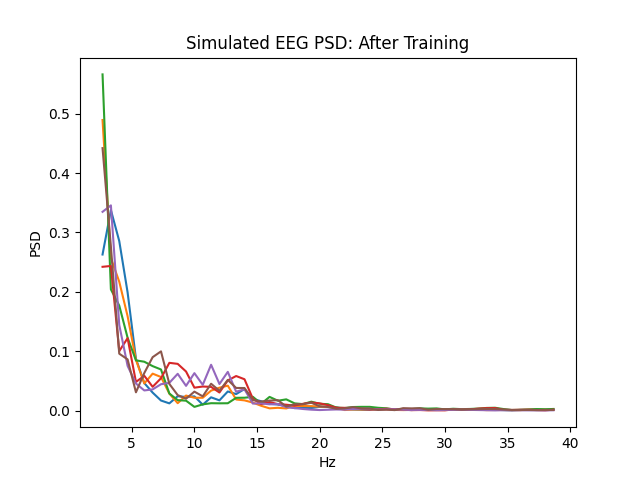
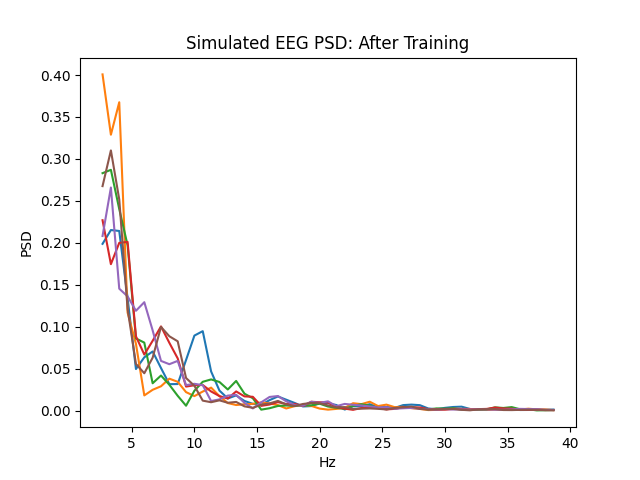
deploy: 4cd87e893a8f2840d76db5c59a5b53d31d13702c

diff --git a/searchindex.js b/searchindex.js
@@ -1,1 +1,1 @@
-Search.setIndex({docnames:["about_whobyt/architecture","about_whobyt/overview","auto_examples/eg001x__template","auto_examples/eg002r__multimodal_simulation","auto_examples/index","auto_examples/sg_execution_times","getting_started/installation","getting_started/running_in_colab","index","usage"],envversion:{"sphinx.domains.c":2,"sphinx.domains.changeset":1,"sphinx.domains.citation":1,"sphinx.domains.cpp":3,"sphinx.domains.index":1,"sphinx.domains.javascript":2,"sphinx.domains.math":2,"sphinx.domains.python":2,"sphinx.domains.rst":2,"sphinx.domains.std":2,"sphinx.ext.intersphinx":1,"sphinx.ext.viewcode":1,sphinx:56},filenames:["about_whobyt/architecture.md","about_whobyt/overview.rst","auto_examples/eg001x__template.rst","auto_examples/eg002r__multimodal_simulation.rst","auto_examples/index.rst","auto_examples/sg_execution_times.rst","getting_started/installation.rst","getting_started/running_in_colab.rst","index.rst","usage.rst"],objects:{},objnames:{},objtypes:{},terms:{"000":[2,5],"0000":3,"0028886040672659874":3,"005750397220253944":3,"008472681976854801":3,"00966897513717413":3,"009988600388169289":3,"0360103":3,"036015":3,"0360467":3,"0361357":3,"0368123":3,"0368483":3,"0371892":3,"037229":3,"0619602":3,"0619746":3,"06199":3,"0619936":3,"0620114":3,"0620167":3,"0620382":3,"0620472":3,"0x7f7bf7fc4670":3,"1000":[0,3],"1010072":3,"1010866":3,"1011379":3,"101193":3,"1020572":3,"1021316":3,"1024857":3,"1025362":3,"11239":0,"11912272125482559":3,"1273":0,"1314":0,"1500":3,"15000":3,"164":[4,5,8],"1662158":3,"1662201":3,"1662443":3,"1662604":3,"1662629":3,"1662803":3,"1662886":3,"16632":3,"169":[3,5],"18623781204223633":3,"2000":3,"2003":0,"2006":0,"2013":0,"2014":0,"23670479655265808":3,"24999991":3,"2712475":3,"2712846":3,"2713214":3,"2713385":3,"271343":3,"2713581":3,"2713706":3,"2713983":3,"2747479975223541":3,"302":0,"3031167685985565":3,"3283":3,"3299173414707184":3,"349921852350235":3,"35011318":3,"35011712":3,"3501218":3,"3501245":3,"35013065":3,"35013175":3,"35013497":3,"3501352":3,"3727840483188629":3,"3771024":3,"3771319":3,"3771743":3,"3771937":3,"377209":3,"3772229":3,"3772334":3,"3772612":3,"3859928548336029":3,"4012949466705322":3,"4158720374107361":3,"4270980656147003":3,"4286":3,"43866902589797974":3,"44819748401641846":3,"45044464":3,"45045507":3,"45046508":3,"4504663":3,"45046854":3,"4504707":3,"45047438":3,"4504811":3,"45792874693870544":3,"4835525":3,"4835823":3,"4835829":3,"4836123":3,"4836246":3,"4836491":3,"4836688":3,"4836866":3,"500":3,"5510819":3,"5510932":3,"5511106":3,"55111176":3,"55111474":3,"5511212":3,"55112153":3,"55113196":3,"5897732":3,"5898482":3,"5898557":3,"5898849":3,"5898869":3,"589929":3,"5899957":3,"5900097":3,"6144":3,"6521192":3,"6521238":3,"652145":3,"652151":3,"65215313":3,"65216434":3,"65216637":3,"65217173":3,"6924806":3,"6925071":3,"6926256":3,"6926712":3,"6926961":3,"6927688":3,"6927848":3,"6928804":3,"7536433":3,"7536461":3,"75366294":3,"75366473":3,"75367504":3,"7536791":3,"75369453":3,"75370157":3,"7886":0,"7930255":3,"7930758":3,"7931284":3,"7932166":3,"7933395":3,"7934923":3,"793536":3,"7935869":3,"8557394":3,"8557445":3,"8557481":3,"85575974":3,"8557742":3,"8557774":3,"8557968":3,"85580385":3,"8829542":3,"8830245":3,"8830833":3,"8830863":3,"8833997":3,"8835701":3,"8836399":3,"8837658":3,"95848596":3,"9584923":3,"9585046":3,"9585108":3,"95852745":3,"9585321":3,"9585528":3,"9585601":3,"963604":3,"9636556":3,"9636761":3,"9637126":3,"9642351":3,"9642849":3,"9645181":3,"9646163":3,"case":0,"class":[0,3],"default":[4,5,8],"float":3,"function":[0,4],"import":[0,2,3,7],"int":3,"long":0,"new":7,"return":3,"super":3,"true":3,Added:3,And:2,Not:3,That:3,The:[0,2],Then:[3,7],Used:3,__init__:3,a_E:0,a_i:0,abl:3,abs:3,activ:6,adam:3,add:[1,3],addit:[0,7],all:3,alreadi:3,also:3,alvarez:0,amplitud:0,ani:4,anywai:7,append:3,approv:7,artifici:[0,3],assum:3,ath:2,aug:0,auto_exampl:5,auto_examples_jupyt:4,auto_examples_python:4,avail:4,averag:0,axessubplot:3,axi:3,b_e:0,b_i:0,backward:3,batch:0,being:3,between:3,biolog:0,bit:3,blah:[2,3],bold_fc:3,bold_fc_loss:3,bold_fc_weight:3,bold_histori:3,bold_lay:3,bold_p:3,bold_param:3,bold_psd:3,bold_psd_loss:3,bold_psd_weight:3,bold_stat:3,brain:0,branch:7,browser:7,calcfc:3,calcloss:3,calcpsd:3,calctotalloss:3,calcul:0,call:0,can:[4,7],cat:3,causal:0,cell:7,center:3,chang:3,chdir:7,choosen:3,chosen:3,click:[2,3],clone:[3,6,7],cmap:3,cmat:0,code:[2,3,4,7],com:[6,7],come:9,compar:0,compon:3,con_mtx:3,conda:6,condit:[0,3],conn_mat:0,connect:0,construct:0,contain:3,continu:7,conveni:7,corbetta:0,corner:3,correspond:7,coupl:0,courner:3,creat:[3,6],cube:3,current:[0,3],d_e:0,d_i:0,data:[0,3],data_tofit:0,debug:3,decis:0,deco:0,decorrel:3,def:3,defin:0,delai:0,delayst:0,demo:[4,5],depend:0,detach:3,differ:[0,3,4],dim:3,dist:3,dist_mtx:3,distanc:3,distribut:3,dmat:0,doc:7,doe:[2,3],down:7,download:[2,3,4],downsmoothpsd:3,drop:7,dtype:3,dure:3,dynam:0,each:[0,3,7],eeg:0,eeg_fc:3,eeg_fc_loss:3,eeg_fc_weight:3,eeg_histori:3,eeg_lay:3,eeg_param:3,eeg_psd:3,eeg_psd_loss:3,eeg_psd_weight:3,effect:0,eg001x__templ:[2,5],eg002r__multimodal_simul:[3,5],eig:3,eigenvalu:3,either:0,electrod:3,els:3,emerg:0,empir:0,environ:[6,7],epoch:3,equal:3,equat:0,erp_timeseries_data:0,event:3,exampl:[2,3,7],excit:0,excitatori:0,execut:5,experi:7,explor:4,extern:0,eye:3,face:3,fals:3,feed:0,feedback:0,ffi:0,fic:0,figsiz:3,figur:3,file:[0,5,7],find:3,first:[3,7],fit:[0,4,5,8],fit_model:0,fitted_r:0,fitter:0,fluctuat:0,fmri:0,folder:6,follow:7,forward:[0,3],four:3,fourth:3,friston:0,from:[0,2,3,6],full:[2,3],functionalconnectivityloss:3,galleri:[2,3,4,7],gamma:0,gammai:0,gate:0,gaussian:0,gener:[2,4],get:[0,3],git:[6,7],github:[6,7],good:7,graph:0,griffithslab:[6,7],hagmann:0,harrison:0,has:4,heatmap:3,here:[2,3,9],how:0,http:[6,7],i_0:0,i_extern:0,idea:7,imag:2,impact:0,increasingli:7,index_img:2,indiviu:3,inhibit:0,inhibitori:0,init_st:3,initi:3,input:0,insert:7,instal:8,install_colab:7,integr:0,ipynb:[2,3,7],item:3,j_nmda:0,j_valu:3,jan:0,jansen_lay:3,jansenritt:0,journal:0,jul:0,jun:0,jupyt:[2,3,4],kinet:0,label:3,lambda:0,latest:6,layer:0,lead_field:3,legend:3,length:3,lf_con_mtx:3,lf_dist_mtx:3,lf_norm:3,lf_sc_mtx:3,lf_sc_mtx_norm:3,lf_sphere_point:3,lf_square_point:3,librari:2,like:2,linalg:3,linear:0,list:[3,7],local:0,locat:3,look:3,loss:[0,3],losscomp:3,losscompon:3,mai:0,make:3,mantini:0,manual:6,mask:3,matplotlib:[2,3],matrix_norm:3,max:3,maxfreq:3,mean:[4,5,8],meanvariableloss:3,mechan:0,middl:3,might:3,minfreq:3,minim:7,minut:[2,3],mmmodel:3,modal:3,model_fit:3,modif:0,modul:[3,4],more:[2,3],msec:3,multi:3,multipli:3,named_paramet:3,navig:7,network:0,neuroimag:[0,2],neurosci:0,next_start_st:3,nib:2,nibabel:2,nilearn:2,node:[0,3],node_histori:3,node_st:3,nois:0,norm:3,normal:3,note:[0,3,9],notebook:[2,3,7],noth:3,now:[0,6,7],num_channel:3,num_epoch:0,num_region:3,numpi:3,object:0,objectivefunct:3,omput:7,one:7,ones:3,onto:3,optim:3,option:7,ord:3,order:4,organ:[4,7],oscil:0,other:0,out:3,over:3,overal:0,page:7,pair:3,panda:[2,3],paper:0,param:[0,3],paramet:[4,5,8],paramsbold:3,paramseeg:3,paramsjr:[0,3],paramsnod:3,penni:0,perceptu:0,pip:6,place:3,plot:[0,2],plot_stat_map:2,plt:[2,3],point:3,ponc:0,powerspectrumloss:3,present:0,print:[2,3],project:3,psd:0,pyplot:[2,3],python:[2,3,4,6,7],radiu:3,randn_lik:3,random:3,rang:[0,3],ratio:0,rdbu_r:3,recurr:0,region:3,rel:3,relat:2,remov:3,repeat:3,repositori:7,requir:6,requires_grad:3,research:7,rest:[0,7],returnlosscompon:3,rnn:0,rnnjansen:[0,3],rnnwwd:3,romani:0,run:[0,2,3],rww:[0,4,5,8],rww_layer:3,rww_param:3,s_e:[0,4,5,8],s_e_mean:3,s_e_mean_loss:3,s_e_mean_weight:3,s_i:0,s_i_mean:3,s_i_mean_loss:3,s_i_mean_weight:3,sai:2,samplefreqhz:3,sc_mtx:3,sc_mtx_norm:3,scalepsd:3,scientif:7,script:[2,3],sdaxi:3,sdaxis_d:3,sdvalu:3,sdvalues_d:3,sdvalues_ds_sc:3,seaborn:3,second:[2,3],section:4,see:7,select:7,self:[0,3],serv:0,set:0,shape:[0,3],should:[0,7],sig:0,signal:[0,3],sim_fc:3,sim_len:3,sim_r:0,similar:3,simpli:0,simul:[0,3],size:3,skip_tran:3,sleep:7,slow:0,sns:3,some:[3,7],sourc:[2,3,4],sphere:3,sphere_point:3,sphinx:[2,3,4,7],sqrt:3,squar:3,square_point:3,squre:3,standard:0,start:0,state:0,step:[3,7],step_siz:3,str:3,stuff:[2,3],suggest:0,sum:3,synapt:0,system:7,tab:7,take:0,targeteeg:3,targetvalu:3,tau_:0,tau_i:0,tau_nmda:0,temporarili:0,tensor:3,test:0,text:3,theoret:3,thi:[0,3,4],third:3,thu:3,time:[0,2,3,7],timeseri:0,titl:3,todo:0,tool:2,top:7,topic:4,torch:3,total:[2,3,5],totalloss:3,totallossfn:3,track:3,txt:6,uncorrel:0,updat:[0,3],use_prior:0,used:7,useful:7,using:[0,4,5,8],v_of_t:0,valu:[0,3],variabl:0,varidx:3,variou:3,version:6,viz:[0,3],vmax:3,vmin:3,w_e:0,w_i:0,w_plu:0,wai:3,wang:0,weight:3,were:3,what:3,which:0,whobpyt:[3,4,5,6],whole:0,wong:0,written:3,xlabel:3,ylabel:3,you:7,zero:3,zero_grad:3,zheng:0,zip:4},titles:["WhoBPyT Code Base Architecture","Overview","WhoBPyT Demo","Fitting S_E Mean to 0.164 using default RWW Parameters","All Notebook Examples","Computation times","Installation","Running whobpyt in google colab","Welcome to WhoBPyT documentation!","Usage"],titleterms:{"164":3,"default":3,"function":3,The:3,adjust:3,after:3,all:4,anoth:2,api:0,architectur:0,base:0,biophys:0,bold:3,channel:3,cnmm:3,code:0,colab:7,comput:5,connect:3,content:4,defin:3,demo:2,document:8,eeg:3,exampl:4,field:3,fit:3,further:3,gener:3,get:8,googl:7,importag:[2,3],instal:6,lead:3,local:4,matrix:3,mean:3,model:[0,3],modul:0,network:3,notebook:4,object:3,overview:1,paramet:[0,3],physic:3,plot:3,possibl:3,psd:3,run:7,rww:3,rww_layer:0,rww_param:0,s_e:3,s_i:3,some:2,space:3,start:8,structur:[0,3],system:0,thing:2,time:5,train:3,usag:[0,9],using:3,welcom:8,whobpyt:[0,2,7,8]}})
+Search.setIndex({docnames:["about_whobyt/architecture","about_whobyt/overview","auto_examples/eg001x__template","auto_examples/eg002r__multimodal_simulation","auto_examples/index","auto_examples/sg_execution_times","getting_started/installation","getting_started/running_in_colab","index","usage"],envversion:{"sphinx.domains.c":2,"sphinx.domains.changeset":1,"sphinx.domains.citation":1,"sphinx.domains.cpp":3,"sphinx.domains.index":1,"sphinx.domains.javascript":2,"sphinx.domains.math":2,"sphinx.domains.python":2,"sphinx.domains.rst":2,"sphinx.domains.std":2,"sphinx.ext.intersphinx":1,"sphinx.ext.viewcode":1,sphinx:56},filenames:["about_whobyt/architecture.md","about_whobyt/overview.rst","auto_examples/eg001x__template.rst","auto_examples/eg002r__multimodal_simulation.rst","auto_examples/index.rst","auto_examples/sg_execution_times.rst","getting_started/installation.rst","getting_started/running_in_colab.rst","index.rst","usage.rst"],objects:{},objnames:{},objtypes:{},terms:{"000":[2,5],"0000":3,"0027142425533384085":3,"005348866805434227":3,"00786597840487957":3,"01048542931675911":3,"012152763083577156":3,"042089":3,"042393":3,"0424085":3,"0425134":3,"0425308":3,"0425317":3,"0425625":3,"0433805":3,"0619197":3,"061944":3,"0619608":3,"0619638":3,"0620021":3,"0620246":3,"0620407":3,"0x7f8c270da2b0":3,"1000":[0,3],"1081054":3,"1083786":3,"1084292":3,"1085258":3,"1085742":3,"1085794":3,"108604":3,"109546":3,"11239":0,"12558689713478088":3,"1273":0,"1314":0,"1500":3,"15000":3,"164":[4,5,8],"1661907":3,"1661981":3,"1662351":3,"1662409":3,"1662815":3,"1663":3,"1663021":3,"1663182":3,"1893225759267807":3,"2000":3,"2003":0,"2006":0,"2013":0,"2014":0,"24114802479743958":3,"24999991":3,"2712632":3,"2712777":3,"2713228":3,"2713327":3,"2713772":3,"2713878":3,"2713931":3,"2714103":3,"27591145038604736":3,"302":0,"30459344387054443":3,"3283":3,"33021286129951477":3,"35011327":3,"3501134":3,"35011673":3,"35012004":3,"3501213":3,"35012332":3,"35012335":3,"3501261":3,"35175880789756775":3,"3689139485359192":3,"37711":3,"3771414":3,"3771902":3,"3772057":3,"3772532":3,"3772609":3,"377269":3,"377289":3,"38664954900741577":3,"4026893973350525":3,"4148496091365814":3,"4274386167526245":3,"4286":3,"43773218989372253":3,"4489363431930542":3,"45043683":3,"45043695":3,"45045283":3,"45045328":3,"4504552":3,"4504635":3,"45046967":3,"45047367":3,"45609527826309204":3,"4835755":3,"48363":3,"4836687":3,"4836807":3,"4837295":3,"483762":3,"4837692":3,"4837781":3,"500":3,"55107224":3,"5510742":3,"5510809":3,"5510959":3,"5510981":3,"5511136":3,"55112034":3,"55112356":3,"5899228":3,"5900035":3,"5900154":3,"5900304":3,"5900972":3,"5901314":3,"5901384":3,"5901738":3,"6144":3,"65209574":3,"6521087":3,"6521103":3,"65213346":3,"6521417":3,"65215224":3,"65216106":3,"65216684":3,"6936897":3,"6937048":3,"6937861":3,"6938404":3,"6938405":3,"6938965":3,"6938998":3,"6939691":3,"7536035":3,"753628":3,"7536283":3,"7536538":3,"7536635":3,"75367916":3,"7536861":3,"7536949":3,"778":[3,5],"7886":0,"7956879":3,"7957901":3,"7958465":3,"7958665":3,"7958792":3,"7959222":3,"795928":3,"7961832":3,"8556915":3,"85572296":3,"85572416":3,"85574806":3,"8557604":3,"8557795":3,"8557832":3,"85579556":3,"8869295":3,"8870862":3,"8871466":3,"8871578":3,"8871715":3,"8872119":3,"8872249":3,"8876625":3,"9584389":3,"95847595":3,"9584783":3,"9584786":3,"95851505":3,"95853657":3,"9585378":3,"95855206":3,"9686803":3,"968953":3,"9689735":3,"9690124":3,"969014":3,"9690237":3,"9690657":3,"9697226":3,"case":0,"class":[0,3],"default":[4,5,8],"float":3,"function":[0,4],"import":[0,2,3,7],"int":3,"long":0,"new":7,"return":3,"super":3,"true":3,Added:3,And:2,Not:3,That:3,The:[0,2],Then:[3,7],Used:3,__init__:3,a_E:0,a_i:0,abl:3,abs:3,activ:6,adam:3,add:[1,3],addit:[0,7],all:3,alreadi:3,also:3,alvarez:0,amplitud:0,ani:4,anywai:7,append:3,approv:7,artifici:[0,3],assum:3,ath:2,aug:0,auto_exampl:5,auto_examples_jupyt:4,auto_examples_python:4,avail:4,averag:0,axessubplot:3,axi:3,b_e:0,b_i:0,backward:3,batch:0,being:3,between:3,biolog:0,bit:3,blah:[2,3],bold_fc:3,bold_fc_loss:3,bold_fc_weight:3,bold_histori:3,bold_lay:3,bold_p:3,bold_param:3,bold_psd:3,bold_psd_loss:3,bold_psd_weight:3,bold_stat:3,brain:0,branch:7,browser:7,calcfc:3,calcloss:3,calcpsd:3,calctotalloss:3,calcul:0,call:0,can:[4,7],cat:3,causal:0,cell:7,center:3,chang:3,chdir:7,choosen:3,chosen:3,click:[2,3],clone:[3,6,7],cmap:3,cmat:0,code:[2,3,4,7],com:[6,7],come:9,compar:0,compon:3,con_mtx:3,conda:6,condit:[0,3],conn_mat:0,connect:0,construct:0,contain:3,continu:7,conveni:7,corbetta:0,corner:3,correspond:7,coupl:0,courner:3,creat:[3,6],cube:3,current:[0,3],d_e:0,d_i:0,data:[0,3],data_tofit:0,debug:3,decis:0,deco:0,decorrel:3,def:3,defin:0,delai:0,delayst:0,demo:[4,5],depend:0,depr:3,detach:3,differ:[0,3,4],dim:3,dist:3,dist_mtx:3,distanc:3,distribut:3,dmat:0,doc:7,doe:[2,3],down:7,download:[2,3,4],downsmoothpsd:3,drop:7,dtype:3,dure:3,dynam:0,each:[0,3,7],eeg:0,eeg_fc:3,eeg_fc_loss:3,eeg_fc_weight:3,eeg_histori:3,eeg_lay:3,eeg_param:3,eeg_psd:3,eeg_psd_loss:3,eeg_psd_weight:3,effect:0,eg001x__templ:[2,5],eg002r__multimodal_simul:[3,5],eig:3,eigenvalu:3,either:0,electrod:3,els:3,emerg:0,empir:0,environ:[6,7],epoch:3,equal:3,equat:0,erp_timeseries_data:0,event:3,exampl:[2,3,7],excit:0,excitatori:0,execut:5,experi:7,explor:4,extern:0,eye:3,face:3,fals:3,feed:0,feedback:0,ffi:0,fic:0,figsiz:3,figur:3,file:[0,5,7],find:3,first:[3,7],fit:[0,4,5,8],fit_model:0,fitted_r:0,fitter:0,fluctuat:0,fmri:0,folder:6,follow:7,forward:[0,3],four:3,fourth:3,friston:0,from:[0,2,3,6],full:[2,3],functionalconnectivityloss:3,galleri:[2,3,4,7],gamma:0,gammai:0,gate:0,gaussian:0,gener:[2,4],get:[0,3],git:[6,7],github:[6,7],good:7,graph:0,griffithslab:[6,7],hagmann:0,harrison:0,has:4,heatmap:3,here:[2,3,9],how:0,http:[6,7],i_0:0,i_extern:0,idea:7,imag:2,impact:0,increasingli:7,index_img:2,indiviu:3,inhibit:0,inhibitori:0,init_st:3,initi:3,input:0,insert:7,instal:8,install_colab:7,integr:0,ipynb:[2,3,7],item:3,j_nmda:0,j_valu:3,jan:0,jansen_lay:3,jansenritt:0,journal:0,jul:0,jun:0,jupyt:[2,3,4],kinet:0,label:3,lambda:0,latest:6,layer:0,lead_field:3,legend:3,length:3,lf_con_mtx:3,lf_dist_mtx:3,lf_norm:3,lf_sc_mtx:3,lf_sc_mtx_norm:3,lf_sphere_point:3,lf_square_point:3,librari:2,like:2,linalg:3,linear:0,list:[3,7],local:0,locat:3,look:3,loss:[0,3],losscomp:3,losscompon:3,mai:0,make:3,mantini:0,manual:6,mask:3,matplotlib:[2,3],matrix_norm:3,max:3,maxfreq:3,mean:[4,5,8],meanvariableloss:3,mechan:0,middl:3,might:3,minfreq:3,minim:7,minut:[2,3],mmmodel:3,modal:3,model_fit:3,modif:0,modul:[3,4],more:[2,3],msec:3,multi:3,multipli:3,named_paramet:3,navig:7,network:0,neuroimag:[0,2],neurosci:0,next_start_st:3,nib:2,nibabel:2,nilearn:2,node:[0,3],node_histori:3,node_st:3,nois:0,norm:3,normal:3,note:[0,3,9],notebook:[2,3,7],noth:3,now:[0,6,7],num_channel:3,num_epoch:0,num_region:3,numpi:3,object:0,objectivefunct:3,omput:7,one:7,ones:3,onto:3,optim:3,option:7,ord:3,order:4,organ:[4,7],oscil:0,other:0,out:3,over:3,overal:0,page:7,pair:3,panda:[2,3],paper:0,param:[0,3],paramet:[4,5,8],paramsbold:3,paramseeg:3,paramsjr:[0,3],paramsnod:3,penni:0,perceptu:0,pip:6,place:3,plot:[0,2],plot_stat_map:2,plt:[2,3],point:3,ponc:0,powerspectrumloss:3,present:0,print:[2,3],project:3,psd:0,pyplot:[2,3],python:[2,3,4,6,7],radiu:3,randn_lik:3,random:3,rang:[0,3],ratio:0,rdbu_r:3,recurr:0,region:3,rel:3,relat:2,remov:3,repeat:3,repositori:7,requir:6,requires_grad:3,research:7,rest:[0,7],returnlosscompon:3,rnn:0,rnnjansen:[0,3],rnnwwd:3,romani:0,run:[0,2,3],rww:[0,4,5,8],rww_layer:3,rww_param:3,s_e:[0,4,5,8],s_e_mean:3,s_e_mean_loss:3,s_e_mean_weight:3,s_i:0,s_i_mean:3,s_i_mean_loss:3,s_i_mean_weight:3,sai:2,samplefreqhz:3,sc_mtx:3,sc_mtx_norm:3,scalepsd:3,scientif:7,script:[2,3],sdaxi:3,sdaxis_d:3,sdvalu:3,sdvalues_d:3,sdvalues_ds_sc:3,seaborn:3,second:[2,3],section:4,see:7,select:7,self:[0,3],serv:0,set:0,shape:[0,3],should:[0,7],sig:0,signal:[0,3],sim_fc:3,sim_len:3,sim_r:0,similar:3,simpli:0,simul:[0,3],size:3,skip_tran:3,sleep:7,slow:0,sns:3,some:[3,7],sourc:[2,3,4],sphere:3,sphere_point:3,sphinx:[2,3,4,7],sqrt:3,squar:3,square_point:3,squre:3,standard:0,start:0,state:0,step:[3,7],step_siz:3,str:3,stuff:[2,3],suggest:0,sum:3,synapt:0,system:7,tab:7,take:0,targeteeg:3,targetvalu:3,tau_:0,tau_i:0,tau_nmda:0,temporarili:0,tensor:3,test:0,text:3,theoret:3,thi:[0,3,4],third:3,thu:3,time:[0,2,3,7],timeseri:0,titl:3,todo:0,tool:2,top:7,topic:4,torch:3,total:[2,3,5],totalloss:3,totallossfn:3,track:3,txt:6,uncorrel:0,updat:[0,3],use_prior:0,used:7,useful:7,using:[0,4,5,8],v_of_t:0,valu:[0,3],variabl:0,varidx:3,variou:3,version:6,viz:[0,3],vmax:3,vmin:3,w_e:0,w_i:0,w_plu:0,wai:3,wang:0,weight:3,were:3,what:3,which:0,whobpyt:[3,4,5,6],whole:0,wong:0,written:3,xlabel:3,ylabel:3,you:7,zero:3,zero_grad:3,zheng:0,zip:4},titles:["WhoBPyT Code Base Architecture","Overview","WhoBPyT Demo","Fitting S_E Mean to 0.164 using default RWW Parameters","All Notebook Examples","Computation times","Installation","Running whobpyt in google colab","Welcome to WhoBPyT documentation!","Usage"],titleterms:{"164":3,"default":3,"function":3,The:3,adjust:3,after:3,all:4,anoth:2,api:0,architectur:0,base:0,biophys:0,bold:3,channel:3,cnmm:3,code:0,colab:7,comput:5,connect:3,content:4,defin:3,demo:2,document:8,eeg:3,exampl:4,field:3,fit:3,further:3,gener:3,get:8,googl:7,importag:[2,3],instal:6,lead:3,local:4,matrix:3,mean:3,model:[0,3],modul:0,network:3,notebook:4,object:3,overview:1,paramet:[0,3],physic:3,plot:3,possibl:3,psd:3,run:7,rww:3,rww_layer:0,rww_param:0,s_e:3,s_i:3,some:2,space:3,start:8,structur:[0,3],system:0,thing:2,time:5,train:3,usag:[0,9],using:3,welcom:8,whobpyt:[0,2,7,8]}})

diff --git a/auto_examples/eg002r__multimodal_simulation.html b/auto_examples/eg002r__multimodal_simulation.html
@@ -195,9 +195,9 @@
 <div class="section" id="importage">
 <h2>Importage<a class="headerlink" href="#importage" title="Permalink to this headline">¶</a></h2>
 <div class="highlight-default notranslate"><div class="highlight"><pre><span></span><span class="c1"># whobpyt stuff</span>
-<span class="kn">from</span> <span class="nn">whobpyt.models</span> <span class="kn">import</span> <span class="n">RNNJANSEN</span><span class="p">,</span><span class="n">ParamsJR</span><span class="p">,</span><span class="n">RNNWWD</span><span class="p">,</span><span class="n">RWW_Layer</span><span class="p">,</span><span class="n">RWW_Params</span><span class="p">,</span><span class="n">BOLD_Layer</span><span class="p">,</span><span class="n">BOLD_Params</span><span class="p">,</span><span class="n">EEG_Layer</span><span class="p">,</span><span class="n">EEG_Params</span><span class="p">,</span><span class="n">Jansen_Layer</span>
-<span class="kn">from</span> <span class="nn">whobpyt.objective</span> <span class="kn">import</span> <span class="n">meanVariableLoss</span><span class="p">,</span><span class="n">powerSpectrumLoss</span><span class="p">,</span><span class="n">functionalConnectivityLoss</span>
-<span class="kn">from</span> <span class="nn">whobpyt.fit</span> <span class="kn">import</span> <span class="n">Model_fitting</span>
+<span class="kn">from</span> <span class="nn">whobpyt.depr.models</span> <span class="kn">import</span> <span class="n">RNNJANSEN</span><span class="p">,</span><span class="n">ParamsJR</span><span class="p">,</span><span class="n">RNNWWD</span><span class="p">,</span><span class="n">RWW_Layer</span><span class="p">,</span><span class="n">RWW_Params</span><span class="p">,</span><span class="n">BOLD_Layer</span><span class="p">,</span><span class="n">BOLD_Params</span><span class="p">,</span><span class="n">EEG_Layer</span><span class="p">,</span><span class="n">EEG_Params</span><span class="p">,</span><span class="n">Jansen_Layer</span>
+<span class="kn">from</span> <span class="nn">whobpyt.depr.objective</span> <span class="kn">import</span> <span class="n">meanVariableLoss</span><span class="p">,</span><span class="n">powerSpectrumLoss</span><span class="p">,</span><span class="n">functionalConnectivityLoss</span>
+<span class="kn">from</span> <span class="nn">whobpyt.depr.fit</span> <span class="kn">import</span> <span class="n">Model_fitting</span>
 
 <span class="c1"># general python stuff</span>
 <span class="kn">import</span> <span class="nn">torch</span><span class="o">,</span> <span class="nn">numpy</span> <span class="k">as</span> <span class="nn">np</span><span class="o">,</span> <span class="nn">pandas</span> <span class="k">as</span> <span class="nn">pd</span>
@@ -466,85 +466,85 @@ Also, written in such a way as to be able to track and plot indiviual components
 tensor([0.1500, 0.1500, 0.1500, 0.1500, 0.1500, 0.1500, 0.1500, 0.1500],
        requires_grad=True))]
 0
-totalLoss =  0.45792874693870544
+totalLoss =  0.45609527826309204
 J values =  [0.24999991 0.24999991 0.24999991 0.24999991 0.24999991 0.24999991
  0.24999991 0.24999991]
 1
-totalLoss =  0.44819748401641846
-J values =  [0.35013497 0.35013175 0.3501245  0.35011318 0.35013065 0.3501352
- 0.3501218  0.35011712]
+totalLoss =  0.4489363431930542
+J values =  [0.35011327 0.3501134  0.35012335 0.35012004 0.35011673 0.35012332
+ 0.3501213  0.3501261 ]
 2
-totalLoss =  0.43866902589797974
-J values =  [0.4504811  0.4504707  0.45046854 0.45044464 0.4504663  0.45047438
- 0.45046508 0.45045507]
+totalLoss =  0.43773218989372253
+J values =  [0.45043695 0.45043683 0.4504552  0.45045283 0.45045328 0.4504635
+ 0.45046967 0.45047367]
 3
-totalLoss =  0.4270980656147003
-J values =  [0.55113196 0.5511106  0.55112153 0.5510819  0.55111176 0.5511212
- 0.55111474 0.5510932 ]
+totalLoss =  0.4274386167526245
+J values =  [0.5510809  0.55107224 0.5510959  0.5510742  0.5510981  0.5511136
+ 0.55112034 0.55112356]
 4
-totalLoss =  0.4158720374107361
-J values =  [0.65217173 0.652145   0.65216434 0.6521192  0.652151   0.65216637
- 0.65215313 0.6521238 ]
+totalLoss =  0.4148496091365814
+J values =  [0.6521103  0.6521087  0.65213346 0.65209574 0.6521417  0.65215224
+ 0.65216684 0.65216106]
 5
-totalLoss =  0.4012949466705322
-J values =  [0.75370157 0.75366473 0.75366294 0.7536461  0.75367504 0.75369453
- 0.7536791  0.7536433 ]
+totalLoss =  0.4026893973350525
+J values =  [0.7536283  0.753628   0.7536538  0.7536035  0.7536635  0.75367916
+ 0.7536949  0.7536861 ]
 6
-totalLoss =  0.3859928548336029
-J values =  [0.85580385 0.85575974 0.8557445  0.8557481  0.8557742  0.8557968
- 0.8557774  0.8557394 ]
+totalLoss =  0.38664954900741577
+J values =  [0.85572296 0.85572416 0.85574806 0.8556915  0.8557604  0.8557795
+ 0.85579556 0.8557832 ]
 7
-totalLoss =  0.3727840483188629
-J values =  [0.9585601  0.9585108  0.95848596 0.9585046  0.95852745 0.9585528
- 0.9585321  0.9584923 ]
+totalLoss =  0.3689139485359192
+J values =  [0.95847595 0.9584783  0.9584786  0.9584389  0.95851505 0.95853657
+ 0.95855206 0.9585378 ]
 8
-totalLoss =  0.349921852350235
-J values =  [1.0620472 1.0619936 1.0619602 1.06199   1.0620114 1.0620382 1.0620167
- 1.0619746]
+totalLoss =  0.35175880789756775
+J values =  [1.0619608 1.0619638 1.061944  1.0619197 1.0620021 1.0620246 1.0620407
+ 1.0620246]
 9
-totalLoss =  0.3299173414707184
-J values =  [1.16632   1.1662629 1.1662201 1.1662604 1.1662803 1.1662158 1.1662886
- 1.1662443]
+totalLoss =  0.33021286129951477
+J values =  [1.1662351 1.1662409 1.1661981 1.1661907 1.1662815 1.1663021 1.1663182
+ 1.1663   ]
 10
-totalLoss =  0.3031167685985565
-J values =  [1.2713983 1.271343  1.2712846 1.2713385 1.2713581 1.2712475 1.2713706
- 1.2713214]
+totalLoss =  0.30459344387054443
+J values =  [1.2713228 1.2713327 1.2712632 1.2712777 1.2713772 1.2713931 1.2714103
+ 1.2713878]
 11
-totalLoss =  0.2747479975223541
-J values =  [1.3772612 1.377209  1.3771319 1.3771937 1.3772229 1.3771024 1.3772334
- 1.3771743]
+totalLoss =  0.27591145038604736
+J values =  [1.3771902 1.3772057 1.37711   1.3771414 1.3772609 1.377269  1.377289
+ 1.3772532]
 12
-totalLoss =  0.23670479655265808
-J values =  [1.4836866 1.4836246 1.4835525 1.4836123 1.4836491 1.4835823 1.4836688
- 1.4835829]
+totalLoss =  0.24114802479743958
+J values =  [1.4836687 1.4836807 1.4835755 1.48363   1.4837692 1.483762  1.4837781
+ 1.4837295]
 13
-totalLoss =  0.18623781204223633
-J values =  [1.5899957 1.5898849 1.5897732 1.5898482 1.5898869 1.5900097 1.589929
- 1.5898557]
+totalLoss =  0.1893225759267807
+J values =  [1.5900035 1.5900304 1.5899228 1.5900154 1.5901314 1.5901738 1.5901384
+ 1.5900972]
 14
-totalLoss =  0.11912272125482559
-J values =  [1.6926256 1.6927688 1.6924806 1.6925071 1.6926961 1.6928804 1.6927848
- 1.6926712]
+totalLoss =  0.12558689713478088
+J values =  [1.6937861 1.6937048 1.6936897 1.6938965 1.6938404 1.6938405 1.6938998
+ 1.6939691]
 15
-totalLoss =  0.0028886040672659874
-J values =  [1.7931284 1.7935869 1.7930255 1.7930758 1.7934923 1.793536  1.7932166
- 1.7933395]
+totalLoss =  0.0027142425533384085
+J values =  [1.7958465 1.7956879 1.7957901 1.7959222 1.795928  1.7958665 1.7958792
+ 1.7961832]
 16
-totalLoss =  0.005750397220253944
-J values =  [1.8830863 1.8837658 1.8829542 1.8830245 1.8836399 1.8835701 1.8830833
- 1.8833997]
+totalLoss =  0.005348866805434227
+J values =  [1.8871466 1.8869295 1.8870862 1.8872119 1.8872249 1.8871715 1.8871578
+ 1.8876625]
 17
-totalLoss =  0.008472681976854801
-J values =  [1.9637126 1.9646163 1.963604  1.9636556 1.9645181 1.9642849 1.9636761
- 1.9642351]
+totalLoss =  0.00786597840487957
+J values =  [1.9690124 1.9686803 1.9689735 1.969014  1.9690657 1.9690237 1.968953
+ 1.9697226]
 18
-totalLoss =  0.00966897513717413
-J values =  [2.0361357 2.037229  2.036015  2.0360467 2.0371892 2.0368483 2.0360103
- 2.0368123]
+totalLoss =  0.01048542931675911
+J values =  [2.0425308 2.042089  2.0425134 2.0424085 2.0425317 2.0425625 2.042393
+ 2.0433805]
 19
-totalLoss =  0.009988600388169289
-J values =  [2.101193  2.1025362 2.1010866 2.1011379 2.1024857 2.1021316 2.1010072
- 2.1020572]
+totalLoss =  0.012152763083577156
+J values =  [2.1085794 2.1081054 2.1085742 2.1083786 2.1085258 2.108604  2.1084292
+ 2.109546 ]
 
 Text(0.5, 1.0, &#39;J_{i} Values Changing Over Training Epochs&#39;)
 </pre></div>
@@ -564,7 +564,7 @@ Text(0.5, 1.0, &#39;J_{i} Values Changing Over Training Epochs&#39;)
 </div>
 <img alt="S_E and S_I" class="sphx-glr-single-img" src="../_images/sphx_glr_eg002r__multimodal_simulation_003.png" />
 <p class="sphx-glr-script-out">Out:</p>
-<div class="sphx-glr-script-out highlight-none notranslate"><div class="highlight"><pre><span></span>&lt;matplotlib.legend.Legend object at 0x7f7bf7fc4670&gt;
+<div class="sphx-glr-script-out highlight-none notranslate"><div class="highlight"><pre><span></span>&lt;matplotlib.legend.Legend object at 0x7f8c270da2b0&gt;
 </pre></div>
 </div>
 </div>
@@ -603,10 +603,10 @@ Text(0.5, 1.0, &#39;J_{i} Values Changing Over Training Epochs&#39;)
 <p class="sphx-glr-script-out">Out:</p>
 <div class="sphx-glr-script-out highlight-none notranslate"><div class="highlight"><pre><span></span>torch.Size([15000, 8])
 
-&lt;AxesSubplot:title={&#39;center&#39;:&#39;Simulated BOLD FC: After Training&#39;}&gt;
+&lt;AxesSubplot: title={&#39;center&#39;: &#39;Simulated BOLD FC: After Training&#39;}&gt;
 </pre></div>
 </div>
-<p class="sphx-glr-timing"><strong>Total running time of the script:</strong> ( 19 minutes  33.169 seconds)</p>
+<p class="sphx-glr-timing"><strong>Total running time of the script:</strong> ( 15 minutes  1.778 seconds)</p>
 <div class="sphx-glr-footer class sphx-glr-footer-example docutils container" id="sphx-glr-download-auto-examples-eg002r-multimodal-simulation-py">
 <div class="sphx-glr-download sphx-glr-download-python docutils container">
 <p><a class="reference download internal" download="" href="../_downloads/3c5011f8f7f9c596535d7002f9b87c31/eg002r__multimodal_simulation.py"><code class="xref download docutils literal notranslate"><span class="pre">Download</span> <span class="pre">Python</span> <span class="pre">source</span> <span class="pre">code:</span> <span class="pre">eg002r__multimodal_simulation.py</span></code></a></p>

diff --git a/auto_examples/sg_execution_times.html b/auto_examples/sg_execution_times.html
@@ -178,7 +178,7 @@
             
   <div class="section" id="computation-times">
 <span id="sphx-glr-auto-examples-sg-execution-times"></span><h1>Computation times<a class="headerlink" href="#computation-times" title="Permalink to this headline">¶</a></h1>
-<p><strong>19:33.169</strong> total execution time for <strong>auto_examples</strong> files:</p>
+<p><strong>15:01.778</strong> total execution time for <strong>auto_examples</strong> files:</p>
 <table class="docutils align-default">
 <colgroup>
 <col style="width: 84%" />
@@ -187,7 +187,7 @@
 </colgroup>
 <tbody>
 <tr class="row-odd"><td><p><a class="reference internal" href="eg002r__multimodal_simulation.html#sphx-glr-auto-examples-eg002r-multimodal-simulation-py"><span class="std std-ref">Fitting S_E Mean to 0.164 using default RWW Parameters</span></a> (<code class="docutils literal notranslate"><span class="pre">eg002r__multimodal_simulation.py</span></code>)</p></td>
-<td><p>19:33.169</p></td>
+<td><p>15:01.778</p></td>
 <td><p>0.0 MB</p></td>
 </tr>
 <tr class="row-even"><td><p><a class="reference internal" href="eg001x__template.html#sphx-glr-auto-examples-eg001x-template-py"><span class="std std-ref">WhoBPyT Demo</span></a> (<code class="docutils literal notranslate"><span class="pre">eg001x__template.py</span></code>)</p></td>

diff --git a/_downloads/3c5011f8f7f9c596535d7002f9b87c31/eg002r__multimodal_simulation.py b/_downloads/3c5011f8f7f9c596535d7002f9b87c31/eg002r__multimodal_simulation.py
@@ -22,9 +22,9 @@ What is being modeled:
 #
 
 # whobpyt stuff
-from whobpyt.models import RNNJANSEN,ParamsJR,RNNWWD,RWW_Layer,RWW_Params,BOLD_Layer,BOLD_Params,EEG_Layer,EEG_Params,Jansen_Layer
-from whobpyt.objective import meanVariableLoss,powerSpectrumLoss,functionalConnectivityLoss
-from whobpyt.fit import Model_fitting
+from whobpyt.depr.models import RNNJANSEN,ParamsJR,RNNWWD,RWW_Layer,RWW_Params,BOLD_Layer,BOLD_Params,EEG_Layer,EEG_Params,Jansen_Layer
+from whobpyt.depr.objective import meanVariableLoss,powerSpectrumLoss,functionalConnectivityLoss
+from whobpyt.depr.fit import Model_fitting
 
 # general python stuff
 import torch, numpy as np, pandas as pd
